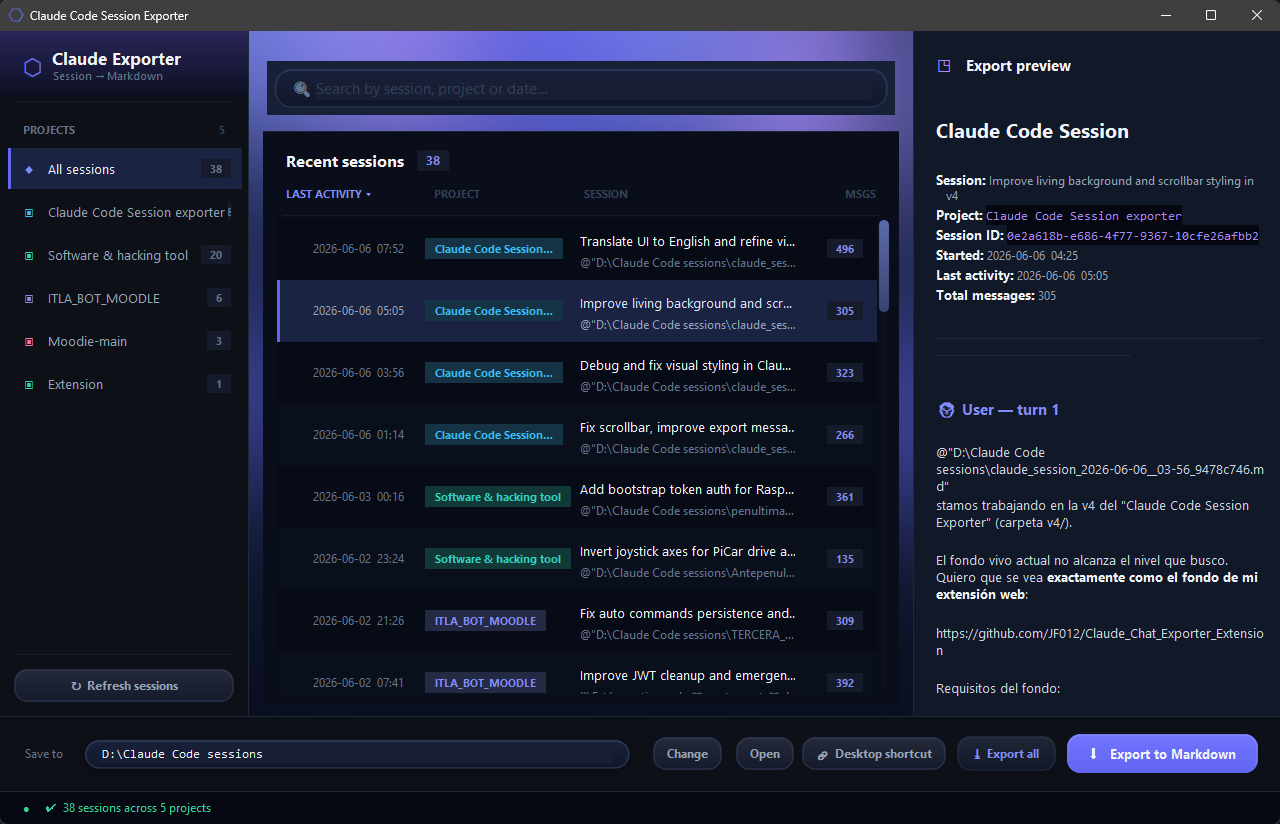
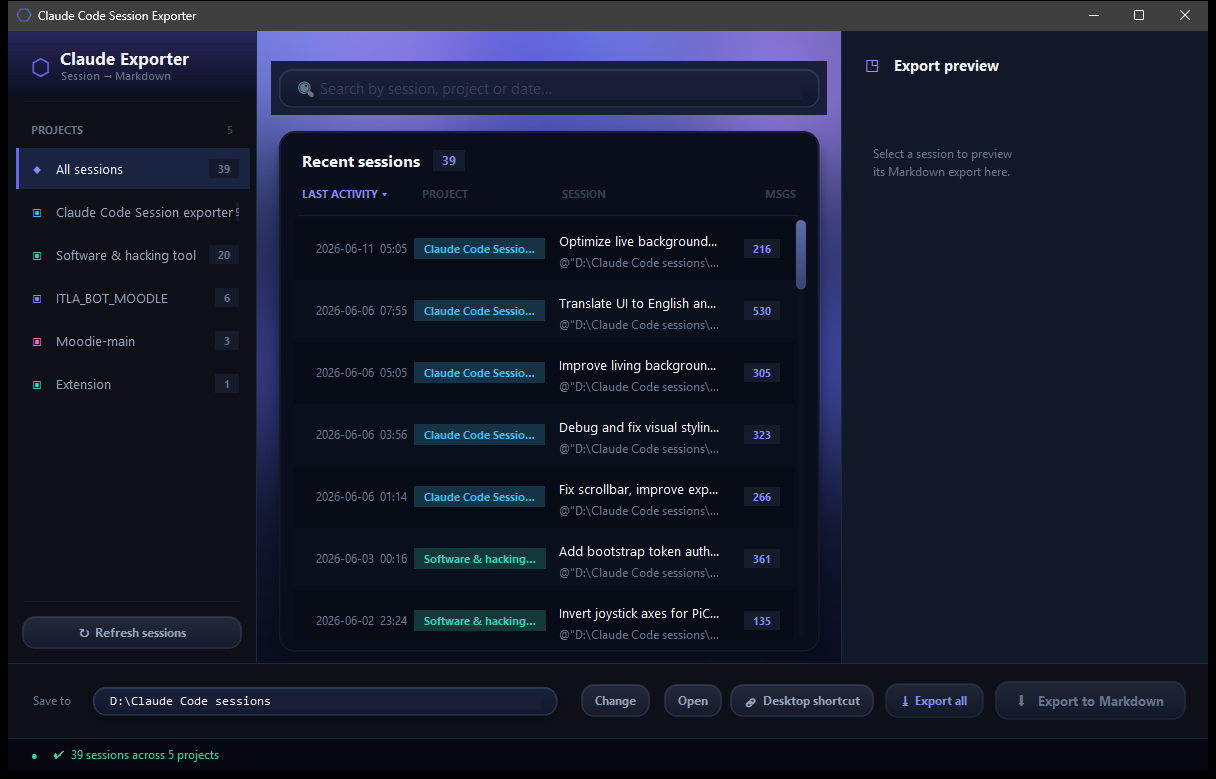
feat: apertura ligera del fondo vivo y tarjeta central redondeada
- Fondo vivo: el primer fotograma aparece en ~0.2s (antes ~1.2s) gracias al handoff temprano, horneado diferido 160ms y buffer interno 224x216 (loop 0.90s y 37.7MB, antes 1.10s y 47.2MB)
- Sin foco la animacion baja a ~12fps manteniendo la velocidad de deriva y recupera 60fps al volver; el fotograma estatico inicial no se repinta en cada tick
- Tarjeta de sesiones con esquinas redondeadas reales: contorno RGBA (sombra, bisel y borde) dibujado como overlay del canvas del fondo, sin coste por fotograma
- Buscador y tarjeta alineados al mismo margen y escala unica de radios en styles (controles 13, tarjeta 16); columnas de fecha y msgs compactadas a favor del titulo de sesion
- fix: sin Pillow la app crasheaba al construir la UI (el fallback del buscador no aceptaba el kwarg shadow); ahora abre limpia con el look plano de respaldo
- Captura del README actualizada

Changed region(s): [[0.0, 0.0, 1.0, 0.9859], [0.0, 0.0, 0.1562, 0.1232], [0.6562, 0.7394, 0.6875, 0.7702]]

diff --git a/v4/ui/main_table.py b/v4/ui/main_table.py
@@ -14,15 +14,25 @@ import tkinter.font as tkfont
 
 import styles as S
 from core.utils import format_ts
-from widgets import FocusField, ScrollableFrame, make_chip, make_badge, Tooltip
+from widgets import (FocusField, ScrollableFrame, make_chip, make_badge,
+                     Tooltip, rounded_card_image, HAS_PIL)
 from ui.living_background import LivingBackground
 
 # Anchos fijos (px) de las columnas no elásticas; la sesión ocupa el resto.
-COL_DATE = 132
-COL_PROJ = 150
-COL_MSGS = 58
+# Ajustados a su contenido real ("2026-06-06 07:55" ≈ 90 px, badge ≈ 34 px)
+# para ceder el máximo de ancho a la columna de sesión (título + preview).
+COL_DATE = 104
+COL_PROJ = 140
+COL_MSGS = 50
 ROW_H    = 62
 MAX_ROWS = 400          # tope defensivo para no renderizar miles de filas
+
+# Tarjeta de contenido: el contorno redondeado se dibuja como imagen RGBA sobre
+# el canvas del fondo vivo; el Frame real (cuadrado) vive INSET px dentro del
+# contorno para que sus esquinas rectas queden siempre bajo el vidrio.
+# INSET debe ser ≥ 0.3·RADIUS_CARD para que la esquina recta no asome del arco.
+CARD_INSET  = 7
+CARD_SHADOW = 14        # aire transparente alrededor (donde respira la sombra)
 
 
 def _truncate(text, font: tkfont.Font, max_px: int) -> str:
@@ -177,23 +187,36 @@ class MainTable(tk.Frame):
         tk.Misc.lower(self._bg)
 
         # ── Buscador glass (flota sobre la zona hero del fondo vivo) ──────────
+        # Mismo radio que los botones y borde visual alineado con la tarjeta
+        # (padx 14 + 8 px de margen interno de la imagen = 22 px de margen real).
         self._search = FocusField(self, icon="🔍",
                                   placeholder="Search by session, project or date…",
-                                  font=S.font(11), surface=S.HERO_SURFACE, radius=16,
-                                  shadow=False)
-        self._search.pack(fill="x", padx=18, pady=(30, 14))
+                                  font=S.font(11), surface=S.HERO_SURFACE,
+                                  radius=S.RADIUS_CTRL, shadow=False)
+        self._search.pack(fill="x", padx=14, pady=(30, 14))
         self._search.var.trace_add("write", lambda *_: self._debounce_search())
 
         # ── Tarjeta de contenido (panel elevado que flota sobre el fondo vivo) ─
-        # Unifica título + columnas + lista en una sola superficie elevada con un
-        # bisel superior, en vez de varias barras oscuras sueltas sobre el glow.
+        # Unifica título + columnas + lista en una sola superficie elevada. Con
+        # Pillow, su contorno redondeado (sombra + bisel + borde) se dibuja como
+        # overlay RGBA sobre el canvas del fondo y este Frame queda CARD_INSET px
+        # dentro; el borde visible cae así a 22 px, alineado con el buscador.
         card = tk.Frame(self, bg=S.BG_CARD)
-        card.pack(fill="both", expand=True, padx=14, pady=(2, 12))
-        tk.Frame(card, bg=S.CARD_HILITE, height=1).pack(fill="x")   # bisel superior
+        card.pack(fill="both", expand=True, padx=22 + CARD_INSET,
+                  pady=(2 + CARD_INSET, 12 + CARD_INSET))
+        self._card = card
+        self._card_item = None      # item de imagen del overlay (canvas del fondo)
+        self._card_photo = None     # ref viva de la PhotoImage (anti-GC)
+        self._card_after = None
+        if HAS_PIL:
+            card.bind("<Configure>", self._on_card_configure)
+        else:
+            # Fallback plano: bisel superior de 1 px, como hasta ahora.
+            tk.Frame(card, bg=S.CARD_HILITE, height=1).pack(fill="x")
 
         # Título + contador
         head = tk.Frame(card, bg=S.BG_CARD)
-        head.pack(fill="x", padx=20, pady=(15, 10))
+        head.pack(fill="x", padx=13, pady=(9, 10))
         tk.Label(head, text="Recent sessions", bg=S.BG_CARD, fg=S.TEXT,
                  font=S.font(12, "bold")).pack(side="left")
         self._count = make_badge(head, "0", fg=S.ACCENT_SOFT, bg=S.BG_ELEV, font_size=9)
@@ -201,7 +224,7 @@ class MainTable(tk.Frame):
 
         # Cabecera de columnas (clic = ordenar)
         hdr = tk.Frame(card, bg=S.BG_CARD)
-        hdr.pack(fill="x", padx=(20, 20))
+        hdr.pack(fill="x", padx=(13, 13))
         self._col_header(hdr, "LAST ACTIVITY", width=COL_DATE + 16, anchor="w",
                          sort_key="last_ts")
         self._col_header(hdr, "PROJECT", width=COL_PROJ, anchor="w",
@@ -210,11 +233,11 @@ class MainTable(tk.Frame):
                          sort_key="message_count")
         self._col_header(hdr, "SESSION", width=0, anchor="w", expand=True,
                          sort_key="display_name")
-        tk.Frame(card, bg=S.BORDER_SOFT, height=1).pack(fill="x", padx=20, pady=(6, 0))
+        tk.Frame(card, bg=S.BORDER_SOFT, height=1).pack(fill="x", padx=13, pady=(6, 0))
 
         # Lista
         self._list = ScrollableFrame(card, bg=S.BG_CARD)
-        self._list.pack(fill="both", expand=True, padx=(14, 8), pady=(2, 10))
+        self._list.pack(fill="both", expand=True, padx=(8, 4), pady=(2, 4))
         self._list.canvas.bind("<Configure>", self._on_canvas_resize, add="+")
 
         # Estado vacío
@@ -253,6 +276,31 @@ class MainTable(tk.Frame):
                 lbl.config(text=base + arrow, fg=S.ACCENT_SOFT)
             else:
                 lbl.config(text=base, fg=S.TEXT_FAINT)
+
+    # ── Overlay de la tarjeta (contorno redondeado sobre el fondo vivo) ───────
+    def _on_card_configure(self, _):
+        if self._card_after:
+            self.after_cancel(self._card_after)
+        self._card_after = self.after(90, self._draw_card_overlay)
+
+    def _draw_card_overlay(self):
+        """Redibuja la imagen RGBA del contorno (sombra + bisel + borde) en el
+        canvas del fondo, ajustada a la posición/tamaño actual del Frame. Sólo
+        corre al cambiar la geometría (debounced) → coste cero por fotograma."""
+        self._card_after = None
+        x, y = self._card.winfo_x(), self._card.winfo_y()
+        w, h = self._card.winfo_width(), self._card.winfo_height()
+        if w <= 1 or h <= 1:
+            return
+        pad = CARD_INSET + CARD_SHADOW
+        self._card_photo = rounded_card_image(
+            w + 2 * pad, h + 2 * pad, radius=S.RADIUS_CARD, margin=CARD_SHADOW)
+        if self._card_item is None:
+            self._card_item = self._bg.create_image(x - pad, y - pad, anchor="nw",
+                                                    image=self._card_photo)
+        else:
+            self._bg.coords(self._card_item, x - pad, y - pad)
+            self._bg.itemconfig(self._card_item, image=self._card_photo)
 
     # ── Búsqueda (debounced) ──────────────────────────────────────────────────
     def _debounce_search(self):

diff --git a/v4/widgets.py b/v4/widgets.py
@@ -21,6 +21,8 @@ try:
 except Exception:                      # pragma: no cover
     _HAS_PIL = False
 
+HAS_PIL = _HAS_PIL                     # para que otros módulos elijan su fallback
+
 
 # ══════════════════════════════════════════════════════════════════════════════
 #  HELPERS DE IMAGEN GLASS (rounded rect con AA, bisel, borde y sombra)
@@ -98,6 +100,63 @@ def glass_field_image(w, h, *, radius, surface, focused=False, pad=8, shadow=Tru
                                            width=max(ss, 1))
 
     return ImageTk.PhotoImage(base.resize((w, h), Image.LANCZOS))
+
+
+def _solid_alpha(size, rgb, alpha):
+    """Capa RGBA de color sólido `rgb` cuyo canal alpha es la máscara `alpha`."""
+    layer = Image.new("RGBA", size, rgb + (0,))
+    layer.putalpha(alpha)
+    return layer
+
+
+def rounded_card_image(w, h, *, radius, margin, surface=None):
+    """Tarjeta de contenido redondeada como PhotoImage RGBA (fondo transparente).
+
+    Pensada para colocarse como ITEM del canvas del fondo vivo: fuera del
+    contorno el alpha es 0, así las esquinas redondeadas dejan ver la animación
+    de detrás sin componer nada por fotograma (coste cero en el tick). Lleva
+    horneados la sombra difusa (sólo lados/base: arriba está el glow hero y una
+    sombra ahí dibujaría un halo oscuro), el bisel superior y el borde suave.
+    El interior es plano (`surface`) para fundirse con el Frame de contenido
+    que vive encima. `margin` es el aire transparente donde respira la sombra.
+    """
+    ss = 2
+    w, h = max(int(w), 1), max(int(h), 1)
+    W, H = w * ss, h * ss
+    M = margin * ss
+    box = [M, M, W - M, H - M]
+    r = max(1, min(int(radius * ss), (box[3] - box[1]) // 2))
+    surface = surface if surface is not None else S.BG_CARD
+
+    img = Image.new("RGBA", (W, H), (0, 0, 0, 0))
+
+    # 1) Sombra difusa, desplazada hacia abajo para no manchar el glow superior
+    sh = Image.new("L", (W, H), 0)
+    ImageDraw.Draw(sh).rounded_rectangle(
+        [box[0], box[1] + 10 * ss, box[2], box[3] + 4 * ss], radius=r, fill=100)
+    sh = sh.filter(ImageFilter.GaussianBlur(6 * ss))
+    img = Image.alpha_composite(img, _solid_alpha((W, H), S.SHADOW_RGB, sh))
+
+    # 2) Cuerpo plano (mismo color que el Frame interior → unión invisible)
+    body = Image.new("L", (W, H), 0)
+    ImageDraw.Draw(body).rounded_rectangle(box, radius=r, fill=255)
+    img = Image.alpha_composite(img, _solid_alpha((W, H), _hex_to_rgb(surface), body))
+
+    # 3) Bisel superior (línea clara interior que se apaga hacia abajo)
+    hi = Image.new("L", (W, H), 0)
+    ImageDraw.Draw(hi).rounded_rectangle(
+        [box[0] + ss, box[1] + ss, box[2] - ss, box[3] - ss],
+        radius=max(r - ss, 1), outline=255, width=max(ss, 1))
+    hi = ImageChops.multiply(hi, _v_grad_L(W, H, 255, 0)).point(lambda v: int(v * 0.9))
+    img = Image.alpha_composite(img, _solid_alpha((W, H), _hex_to_rgb(S.CARD_HILITE), hi))
+
+    # 4) Borde suave de cierre
+    bd = Image.new("RGBA", (W, H), (0, 0, 0, 0))
+    ImageDraw.Draw(bd).rounded_rectangle(
+        box, radius=r, outline=_hex_to_rgb(S.CARD_BORDER) + (255,), width=max(ss, 1))
+    img = Image.alpha_composite(img, bd)
+
+    return ImageTk.PhotoImage(img.resize((w, h), Image.LANCZOS))
 
 
 # ══════════════════════════════════════════════════════════════════════════════
@@ -208,7 +267,7 @@ class _RoundedButtonCanvas(tk.Canvas):
             fill, border, fg = s["hover_bg"], s["hover_border"], s["hover_fg"]
         else:
             fill, border, fg = s["bg"], s["border"], s["fg"]
-        r = min(h // 2, 13)
+        r = min(h // 2, S.RADIUS_CTRL)
         self._photo = _rounded_btn_image(
             w, h, r, _hex_to_rgb(fill), _hex_to_rgb(border), 1,
             _hex_to_rgb(self._surface))
@@ -491,10 +550,13 @@ class _FocusFieldGlass(tk.Canvas):
 
 
 class _FocusFieldFlat(tk.Frame):
-    """Fallback sin Pillow: Entry en un marco con borde que se ilumina al enfocar."""
+    """Fallback sin Pillow: Entry en un marco con borde que se ilumina al enfocar.
+
+    Acepta (e ignora) los kwargs estéticos de la variante glass —radius, shadow,
+    surface…— para que los llamadores no tengan que distinguir variantes."""
     def __init__(self, parent, *, textvariable=None, font=None, icon=None,
                  placeholder=None, mono=False, surface=S.BG_PANEL,
-                 radius=None, height=None):
+                 radius=None, height=None, shadow=True):
         super().__init__(parent, bg=S.BG_PANEL, bd=0, highlightthickness=1,
                          highlightbackground=S.BORDER, highlightcolor=S.BORDER)
         self.var = textvariable or tk.StringVar()

diff --git a/v4/ui/living_background.py b/v4/ui/living_background.py
@@ -16,6 +16,16 @@ Rendimiento (60 fps reales, fluido y sin tirones):
     `.paste()` —sin reasignar imágenes Tk ni recolorear nada—. El pacing es
     estable → fluidez real, no la sensación de bajo FPS del enfoque anterior.
 
+Apertura ligera (la app debe sentirse instantánea al abrir):
+  · El horneado arranca con un pequeño retraso (BUILD_DELAY_MS) para que el
+    primer pintado de la ventana y el escaneo de sesiones tomen la delantera.
+  · El fotograma 0 se entrega EN CUANTO existe (~150 ms): el fondo aparece ya
+    compuesto (estático) y el loop completo lo releva después desde ese mismo
+    fotograma → sin salto visible ni "pop" tardío.
+  · Mientras sólo está el fotograma estático no se re-pinta nada en cada tick,
+    y con la app sin foco la animación baja a ~12 fps (misma velocidad de
+    deriva, menos CPU); recupera 60 fps al volver el foco.
+
 El loop es perfectamente periódico (toda deriva es sin(2π·k·i/N) con k entero),
 así que al volver al fotograma 0 no hay salto. La paleta vive en `styles.py`.
 
@@ -26,6 +36,7 @@ estático para que la app nunca rompa.
 import math
 import random
 import threading
+import time
 import tkinter as tk
 
 import styles as S
@@ -39,12 +50,16 @@ except Exception:                      # pragma: no cover
 
 
 # ── Parámetros de render ──────────────────────────────────────────────────────
-FPS_MS      = 16        # ~60 fps
+FPS_MS      = 16        # ~60 fps con la app enfocada
+SLOW_EVERY  = 5         # sin foco: avanza 1 de cada 5 ticks (~12 fps, misma deriva)
 LOOP_FRAMES = 260       # fotogramas del loop → ~4.3 s a 60 fps (deriva lenta)
-IW, IH      = 252, 240  # lienzo interno (baja res); se estira al tamaño real
+IW, IH      = 224, 216  # lienzo interno (baja res); se estira al tamaño real.
+                        # Tras el blur + upscale BILINEAR el resultado es
+                        # indistinguible de 252×240 y el horneado baja ~25 %.
 DRIFT_M     = 16        # margen vertical para la respiración del gradiente (px)
 BLUR        = IW * 0.058  # radio de blur ≈ filter: blur() de la extensión
 GLOW_D      = 200       # diámetro del glow radial base (se reescala por orbe)
+BUILD_DELAY_MS = 160    # respiro para el primer pintado + arranque del escaneo
 
 # Orbes: glow radial índigo/violeta compuesto por alpha (como las .orb de la
 # extensión: radial-gradient + opacity). Bias a la banda hero (arriba) y a los
@@ -82,6 +97,8 @@ class LivingBackground(tk.Canvas):
         self._running = False
         self._after = None
         self._build_started = False
+        self._single_done = False  # fotograma estático inicial ya pintado
+        self._slow = 0             # contador de ticks en modo sin foco (~12 fps)
         self.bind("<Configure>", self._on_configure)
         self.bind("<Destroy>", lambda e: self._stop())
 
@@ -95,7 +112,10 @@ class LivingBackground(tk.Canvas):
             return
         if not self._build_started and self._cw > 1:
             self._build_started = True
-            threading.Thread(target=self._build_frames, daemon=True).start()
+            # Arranque diferido: el primer pintado de la ventana y el hilo de
+            # escaneo de sesiones toman la delantera antes de hornear el loop.
+            self.after(BUILD_DELAY_MS, lambda: threading.Thread(
+                target=self._build_frames, daemon=True).start())
         if not self._running and self._cw > 1:
             self._start()
 
@@ -103,9 +123,16 @@ class LivingBackground(tk.Canvas):
     def _build_frames(self):
         grad = self._make_gradient()          # gradiente alto (con margen de deriva)
         glow = self._make_glow()              # glow radial base (canal alpha)
-        frames = []
-        for i in range(LOOP_FRAMES):
+        first = self._compose(0, grad, glow)
+        # El fotograma 0 se entrega ya: el fondo aparece compuesto (estático)
+        # mientras el resto del loop se hornea. Al instalarse el loop completo
+        # la animación continúa desde este mismo fotograma → sin salto.
+        self._pending = [first]
+        frames = [first]
+        for i in range(1, LOOP_FRAMES):
             frames.append(self._compose(i, grad, glow))
+            if i % 16 == 0:
+                time.sleep(0)                 # cede el GIL al escaneo y a la UI
         # Handoff seguro al hilo principal: asignación de referencia (atómica por
         # el GIL). El _tick (hilo principal) la recoge → sin after() entre hilos.
         self._pending = frames
@@ -183,24 +210,44 @@ class LivingBackground(tk.Canvas):
         self._after = self.after(FPS_MS, self._tick)
         if self._pending is not None:        # frames listos desde el hilo
             self._frames, self._pending = self._pending, None
+            self._single_done = False
         if not self._frames or self._cw <= 1:
             return
         try:
             if not self.winfo_viewable():
                 return
+            unfocused = self.focus_displayof() is None
         except Exception:
-            pass
-        self._idx = (self._idx + 1) % len(self._frames)
+            unfocused = False
+        static = len(self._frames) == 1
+        # Fotograma estático inicial: una vez pintado no hay nada que animar.
+        if static and self._single_done and (self._pw, self._ph) == (self._cw, self._ch):
+            return
+        step = 1
+        if unfocused and not static:
+            # Sin foco: 1 repintado de cada SLOW_EVERY ticks, avanzando el índice
+            # en bloque → misma velocidad de deriva con ~1/5 del coste.
+            self._slow += 1
+            if self._slow % SLOW_EVERY:
+                return
+            step = SLOW_EVERY
+        else:
+            self._slow = 0
+        self._idx = (self._idx + step) % len(self._frames)
         big = self._frames[self._idx].resize((self._cw, self._ch), Image.BILINEAR)
         if self._photo is None or (self._pw, self._ph) != (self._cw, self._ch):
             self._photo = ImageTk.PhotoImage(big)
             self._pw, self._ph = self._cw, self._ch
             if self._img_id is None:
                 self._img_id = self.create_image(0, 0, anchor="nw", image=self._photo)
+                # Siempre al fondo: por encima puede haber overlays (la tarjeta
+                # redondeada de MainTable se dibuja como item de este canvas).
+                self.tag_lower(self._img_id)
             else:
                 self.itemconfig(self._img_id, image=self._photo)
         else:
             self._photo.paste(big)        # vuelca en sitio → sin reasignar imagen Tk
+        self._single_done = static
 
     # ── Fallback sin Pillow: degradado estático (la app nunca rompe) ──────────
     def _draw_static_gradient(self):

diff --git a/v4/styles.py b/v4/styles.py
@@ -58,6 +58,10 @@ CHIP_BG     = "#161b2c"
 CHIP_BORDER = "#2a3149"
 CHIP_HOVER  = "#1e2540"
 
+# ── Radios de esquina (escala única → la UI no mezcla curvaturas) ────────────
+RADIUS_CTRL = 13   # controles: botones, buscador, campo de ruta
+RADIUS_CARD = 16   # superficies grandes: tarjeta de contenido central
+
 # ── Campos glass (inputs premium: gradiente, borde suave, sombra y foco) ──────
 # Render con Pillow (rounded rect supersampleado) → esquinas redondeadas reales,
 # bisel superior, borde suave y sombra difusa que tk no puede dar por sí solo.

diff --git a/v4/ui/toolbar.py b/v4/ui/toolbar.py
@@ -25,7 +25,8 @@ class Toolbar(tk.Frame):
                  font=S.font(9)).pack(side="left", padx=(0, 11))
 
         self.dir_var = tk.StringVar(value=str(out_dir))
-        self._field = FocusField(row, textvariable=self.dir_var, mono=True)
+        self._field = FocusField(row, textvariable=self.dir_var, mono=True,
+                                 radius=S.RADIUS_CTRL)
 
         # ── Derecha: acciones ─────────────────────────────────────────────────
         self._btn_export = RoundedButton(row, "⬇   Export to Markdown", on_export,